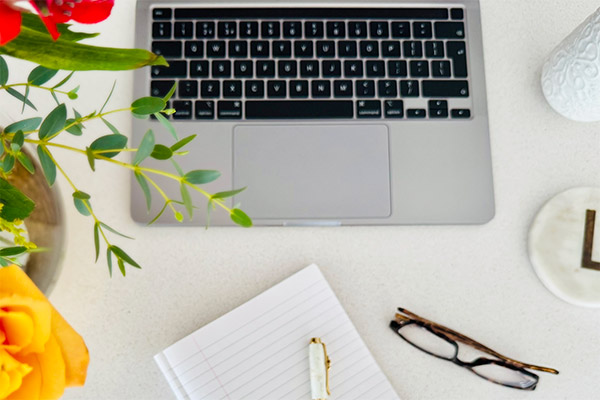
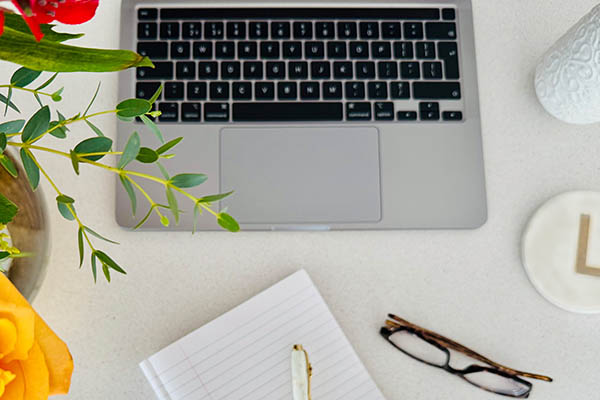
updating imagesand tweaking showcase styles

diff --git a/src/constants/homepage/content.js b/src/constants/homepage/content.js
@@ -26,7 +26,7 @@ export const HOMEPAGE_CONTENT = {
     subtitle: "How I Can Help",
     services: [
       {
-        imageSrc: "/laptop-closed-flat.jpg",
+        imageSrc: "/code.jpg",
         alt: "",
         title: "Custom Development",
         description:
@@ -34,7 +34,7 @@ export const HOMEPAGE_CONTENT = {
         href: "/services",
       },
       {
-        imageSrc: "https://place-hold.it/300x200/#fffff",
+        imageSrc: "/keyboard-flat-white.jpg",
         alt: "",
         title: "Performance & SEO Optimisation",
         description:
@@ -42,7 +42,7 @@ export const HOMEPAGE_CONTENT = {
         href: "/services",
       },
       {
-        imageSrc: "/keyboard-flat-white.jpg",
+        imageSrc: "/shopify-dev.jpg",
         alt: "",
         title: "E-Commerce & Shopify Solutions",
         description:
@@ -64,9 +64,9 @@ export const HOMEPAGE_CONTENT = {
     title: "View my recent work",
     subtitle: "My Portfolio",
     images: [
-      { imageSrc: "https://place-hold.it/300x300/#fffff", alt: "" },
-      { imageSrc: "https://place-hold.it/300x300/#fffff", alt: "" },
-      { imageSrc: "https://place-hold.it/300x300/#fffff", alt: "" },
+      { imageSrc: "/lesterrechocolate-recent-work.jpg", alt: "" },
+      { imageSrc: "/the-fabled-thread-recent-work.jpg", alt: "" },
+      { imageSrc: "/the-mews-recent-work.jpg", alt: "" },
     ],
     link: {
       cta: "View more",

diff --git a/src/components/showcase/showcase.module.css b/src/components/showcase/showcase.module.css
@@ -2,11 +2,17 @@
     padding: 30px 0;
     background: #ffffff;
     color: #373636;
+  }
 
-    .image {
-      margin: 15px;
-      vertical-align: middle;
-    }
+  .images {
+    margin-bottom: 30px;
+  }
+
+  .image {
+    max-width: 380px;
+    margin: 0 auto;
+    padding: 10px 15px;
+    vertical-align: middle;
   }
 
   @media (min-width: 1200px) {
@@ -15,10 +21,11 @@
     }
 
     .images {
-      margin: 30px;
+      margin: 30px auto;
+    }
 
-      .image {
-        margin: 0 30px;
-      }
+    .middle {
+      max-width: 430px;
+      width: 100%;
     }
   }

diff --git a/src/components/showcase/showcase.tsx b/src/components/showcase/showcase.tsx
@@ -28,9 +28,11 @@ const Showcase = ({
         isTitleFirst={isTitleFirst}
       />
       <div className={styles.images}>
-        {images.map(({ imageSrc, alt }) => (
+        {images.map(({ imageSrc, alt }, index) => (
           <img
-            className={styles.image}
+            className={`${styles.image} ${
+              index === Math.floor(images.length / 2) ? styles.middle : ""
+            }`}
             key={imageSrc}
             src={imageSrc}
             alt={alt}
